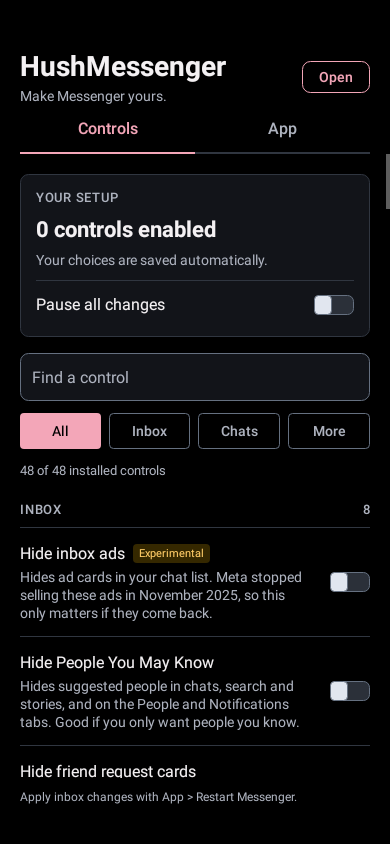
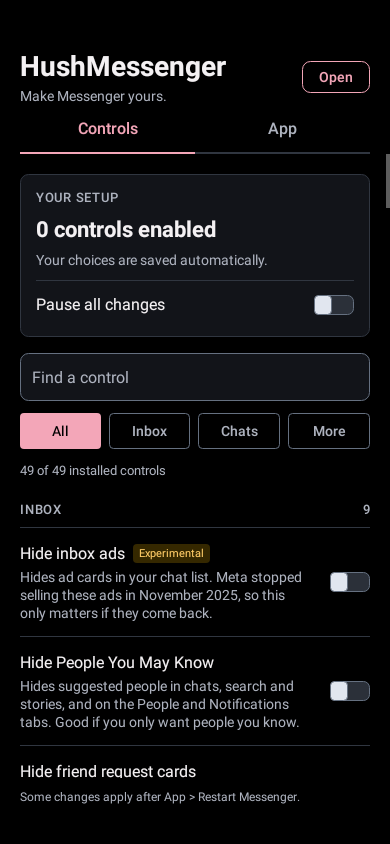
Refresh settings screenshots and verification notes for 49 controls

Changed region(s): [[0.0615, 0.9242, 0.7692, 0.955], [0.9231, 0.5853, 0.9538, 0.6161], [0.0615, 0.5545, 0.0923, 0.5853]]

diff --git a/README.md b/README.md
@@ -297,7 +297,7 @@ On Windows, compare your file with `Get-FileHash -Algorithm SHA256 .\messenger.a
 
 ## Verification and build
 
-Development v0.23.3 passed 1027 Android unit cases and 348 patch cases on October 12, 2026, with no skipped cases in the combined results. The Android total combines a full run with passing retries of the affected classes. All 90 Python checks passed. Patch checks used the exact stock APKs for all 14 supported builds. Release lint reported no errors, 19 warnings and one hint. Fifty-four native Android view captures cover Controls, App, Restart, message log and auto replies in both themes, including focus, validation, storage failures, long replies, 200% text and mirrored layouts. Keyboard clearance uses simulated insets. The actual keyboard, Samsung host layout and live reply privacy acceptance remain unverified.
+Development v0.23.3 passed 1084 Android unit cases and 350 patch cases on October 12, 2026. The Android total combines a full run with the native screenshot run. Seven suites also ran again on an API 37 runtime with Messenger's target raised to 37, and 122 of those copies passed. The other 19 are cases their own suite already pins to another SDK, so the copy skips them. All 90 Python checks passed. Patch checks used the exact stock APKs for all 14 supported builds. Release lint reported no errors, 19 warnings and one hint. Fifty-six native Android view captures cover Controls, App, Restart, message log and auto replies in both themes, including focus, validation, storage failures, a set-aside log, long replies, 200% text and mirrored layouts. Keyboard clearance uses simulated insets. On an Android 12L emulator running patched 582, an open message log stayed out of Recents and screenshots with `Allow screenshots` on or off and with `Pause all changes` on. The actual keyboard, Samsung host layout and live reply privacy acceptance remain unverified.
 
[1 lines of base64/hex data omitted]
 
